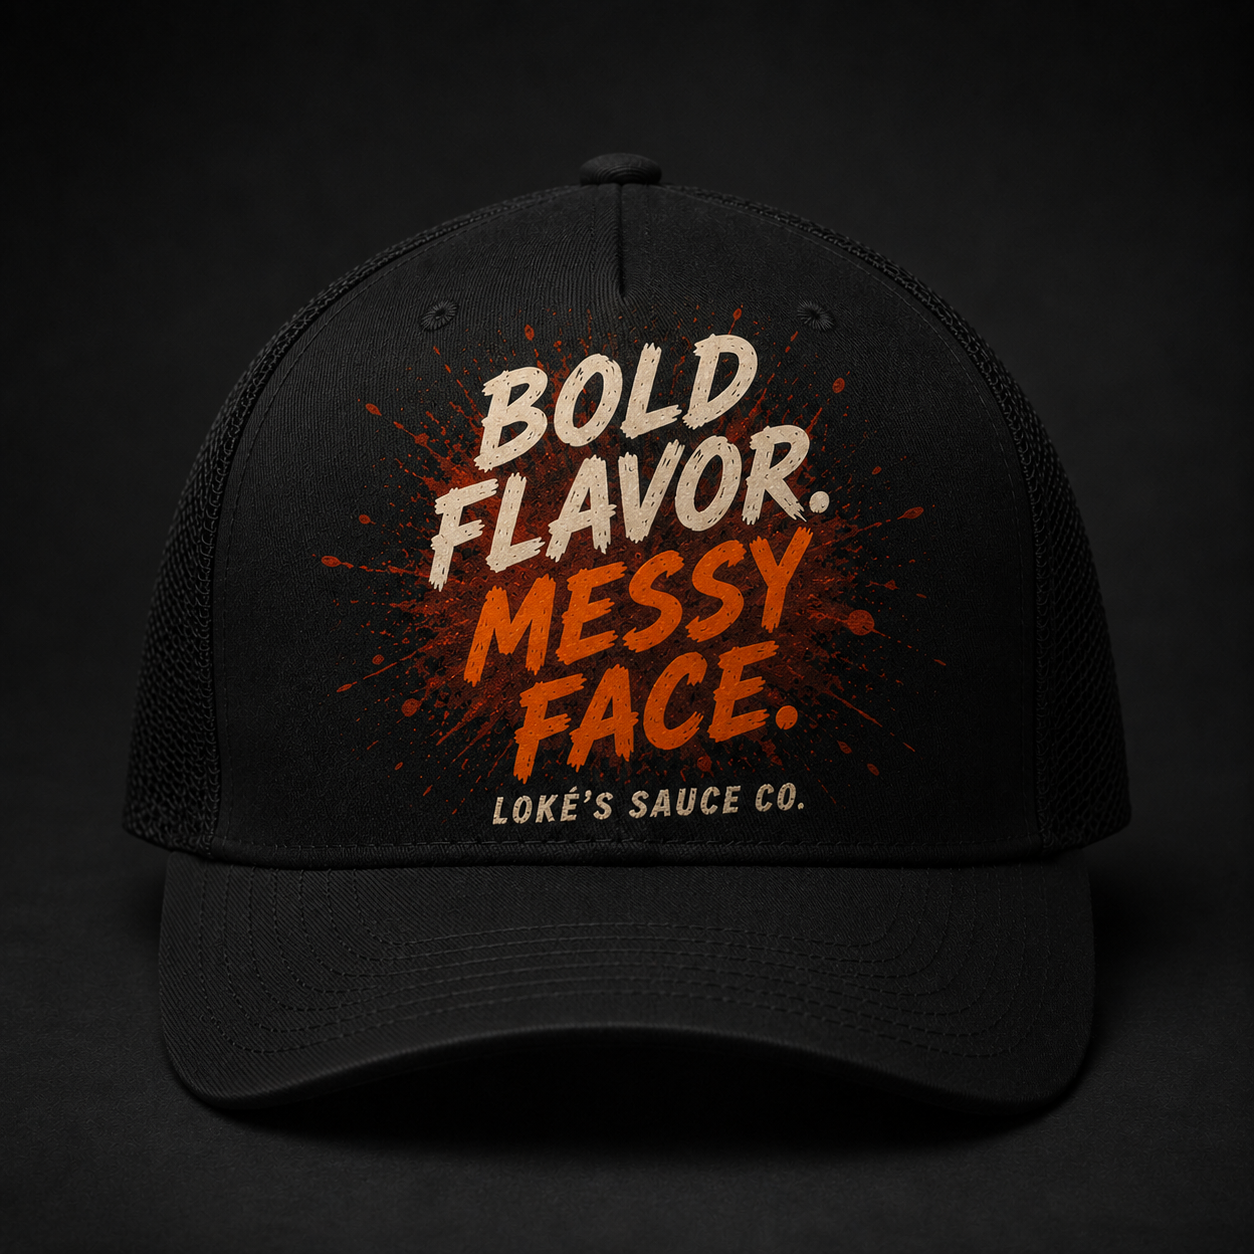
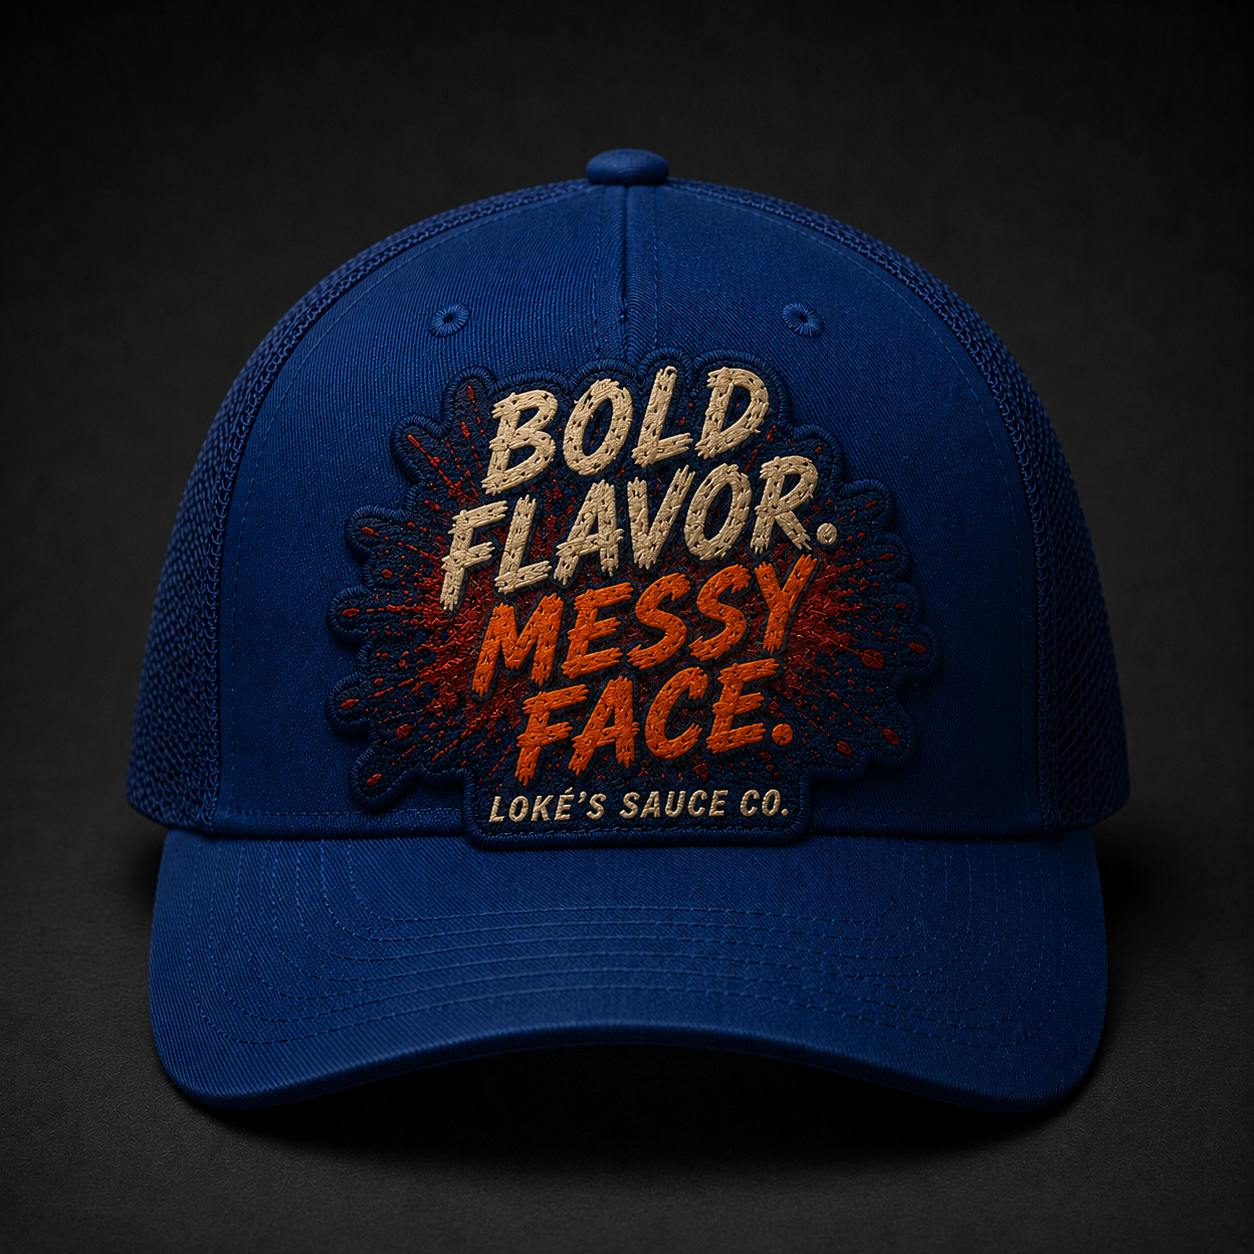
merch page updated with real pic

diff --git a/merch.html b/merch.html
@@ -663,7 +663,7 @@ img{max-width:100%;display:block}
   <div class="section-head">
     <div class="eyebrow">Product Drops</div>
     <h2 class="section-title">Wear The Sauce</h2>
-    <p class="section-sub">Realistic concept mockups for the first merch run. Use the dropdowns on each item to preview every available color and slogan option.</p>
+    <p class="section-sub">Realistic concept mockups for the first merch run. Use the dropdowns on each item to preview every color and slogan option.</p>
   </div>
 
   <div class="how-it-works"><strong>How this works:</strong> Pick a color. Pick a slogan. The image above that item changes to match the selection.</div>
